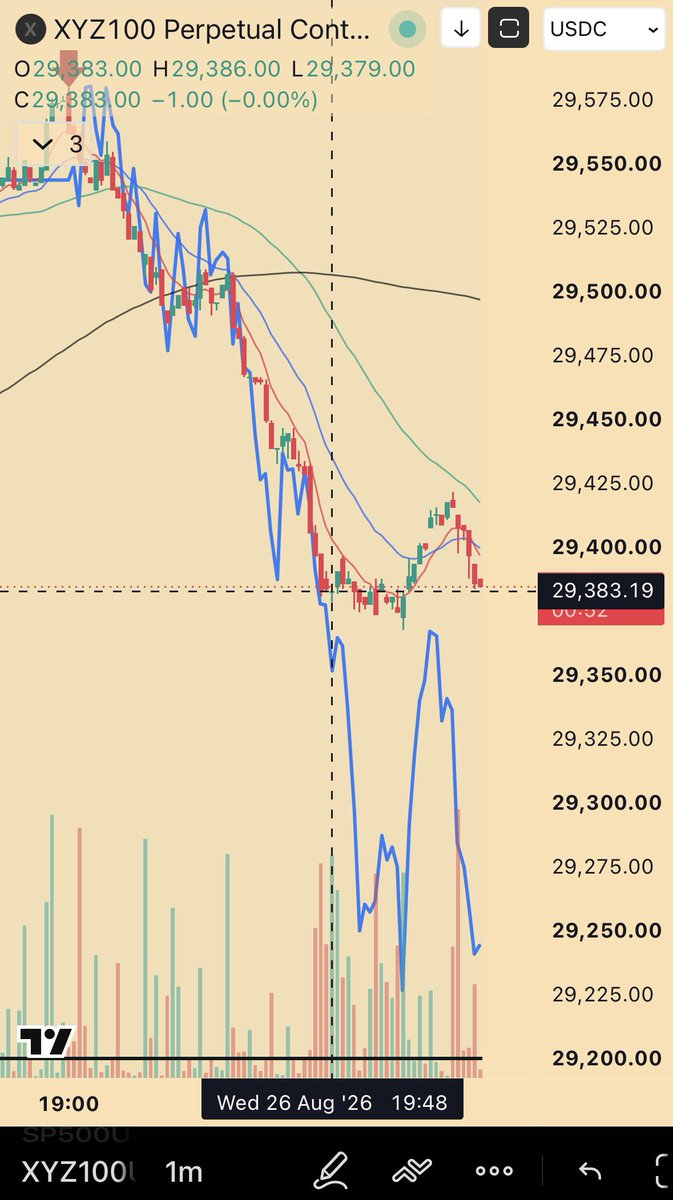
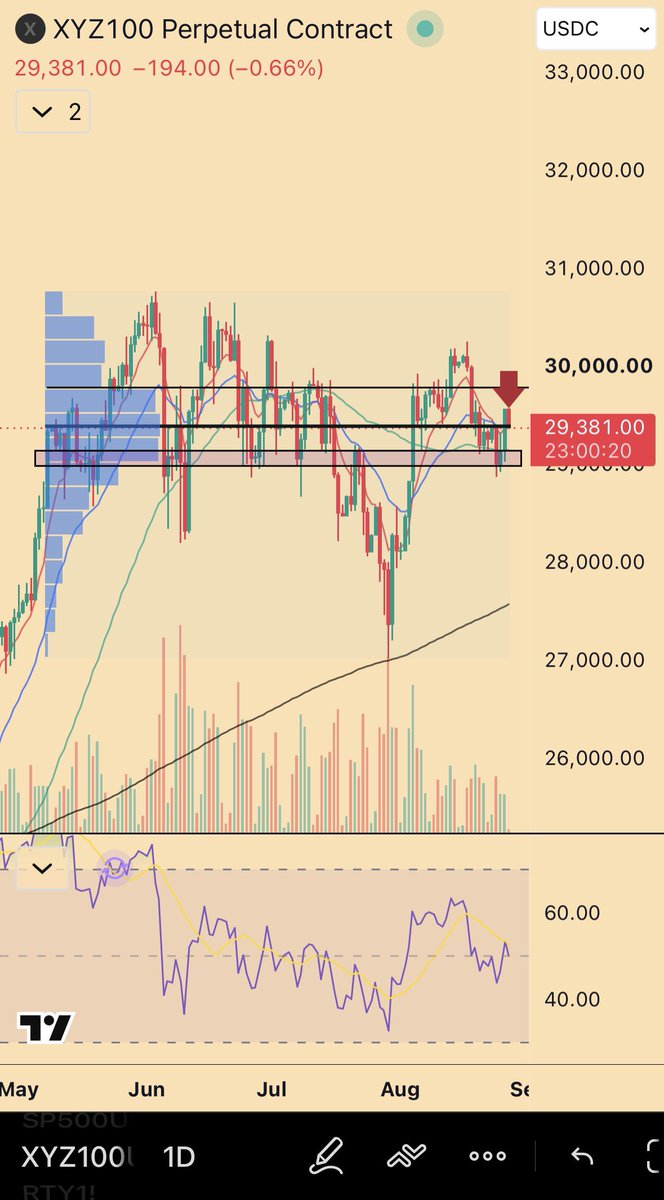
chore(x-trader-monitor): auto-commit 2026-08-27

diff --git a/memory/logs/2026-08-27.md b/memory/logs/2026-08-27.md
@@ -98,3 +98,11 @@
 - alerted: yes (informational market sentiment + Kyle watch-list tickers)
 - message: "Couple massive software earnings beats & NVDA for the first time in years is holding 5% gains post-earnings call\n\naaaand gold is outperforming the Nasdaq overnight\n\nYeah, you might want to listen to this"
 - context: Market sentiment observation on equities strength (NVDA post-earnings +5% stability) vs commodities outperformance (GOLD beating NASDAQ overnight index). Step 7 image analysis: meme screenshot (Luke Gromen "Why Bessent Blinked") with background text "FISCAL CRISIS" + "INTEREST RATES" — providing macro/policy context for observation. This frames NVDA/gold divergence as structural shift tied to fiscal-policy sentiment (Bessent Treasury implications for rates/risk). Classification: Step 6 INFORMATIONAL (market commentary/sentiment observation, no personal trade execution language). Text describes market structure ("NVDA holding gains", "gold outperforming"), not trader's personal action ("just bought", "closed position", "shorted"). Macro technical observation fits Step 6 framework. Dispersion-trade validation: aligns with WR's documented thesis ("bearish equities into Oct; GOLD/crypto won't make new lows even if equities do"). Current observation: both equities AND commodities strong = potential regime shift within prior bearish-equities macro thesis. Alerted Kyle via ./notify with sentiment context + ticker relevance (both on Kyle's explicit watch list: $NVDA, $GOLD). Memory updated (traders.md, x-trader-seen.txt). No approval required. Follow-up: watch for WR's next post on macro thesis shift if equity strength persists (potential ambiguous/thesis-testing signal).
+### x-trader-monitor (real-time event) — 01:24Z
+- trader: @Wild_Randomness
+- tweet_id: 2092785285268672822
+- classification: informational
+- ticker(s): [$KOSPI/$XYZ100]
+- alerted: yes
+- message: "Ideally just a POC re-test and go on a scam open on the KOSPI\n\nOk last tweet of the night, check back in tomorrow"
+- context: Technical market-structure observation on KOSPI/XYZ100 (Korean indices). Step 7 chart analysis: 1D daily chart shows XYZ100 Perpetual Contract at 29,381 (-0.66%), consolidation box 29,300-29,400 (Point of Control/volume profile peak, shown by dense volume histogram on left), multiple rejection wicks at 30,000 resistance. WR predicting market will retest POC level (consolidation zone) and then see another "scam open" (fake breakout attempt) at the 30K resistance level, continuing the pattern visible in chart. No personal trade execution language ("I bought/sold/added/closed"). Sentiment language: sign-off post ("Ok last tweet of the night, check back in tomorrow") indicates trader ending session. Step 6 classification: INFORMATIONAL (market structure/technical analysis commentary, no personal position or execution signal). Alerted Kyle via ./notify with chart context. Memory updated with event entry in traders.md. Tweet ID added to dedup list (memory/x-trader-seen.txt). Continuation of Wild_Randomness's Korean index technical focus across multiple posts in same session (00:26Z spike-rejection, 00:48Z algo structure critique, 01:16Z consolidation reaction, 01:24Z POC pattern prediction).

diff --git a/memory/topics/traders.md b/memory/topics/traders.md
@@ -102,6 +102,7 @@
   - Aug 27 00:01Z — informational: Nasdaq E-mini consolidation pattern 28K-30.5K; complex pullback with support/resistance structure + downtrending trendline; aligns with bearish-equities-into-Oct thesis [$NASDAQ] [2092764375857963350]
   - Aug 27 00:26Z — informational: XYZ100 (KOSPI 100) spike-rejection pattern; market microstructure commentary on Korean algo-driven inefficiencies; spike 29600→breakdown 29496; support zones 29100-29000; chart shows failed breakout [$KOSPI/$XYZ100] [2092770571268591715]
   - Aug 27 01:16Z — informational: XYZ100 spike-rejection continuation; reactive follow-up "I guess that's a start… thanks?"; 1m chart showing spike 29,600→breakdown 29,496→consolidation 29,383; sentiment response to market action; aligns with prior 00:26Z Korean index technical analysis [$XYZ100/$KOSPI] [2092783277346263269]
+  - Aug 27 01:24Z — informational: KOSPI/XYZ100 POC re-test + scam-open pattern; 1D chart consolidation 29,300-29,400 (volume profile POC) with multiple 30K rejection wicks; technical market-structure observation; sign-off post ("Ok last tweet of the night, check back in tomorrow") [$KOSPI/$XYZ100] [2092785285268672822]
   - Aug 27 00:32Z — ambiguous: ENA "0.136 you say?"; cryptic reference to Aug 26 21:57Z ENA dump to 0.1360; unclear if sarcasm/dismissal or execution question on TWAP fills; intent context unknown [$ENA] [2092772080874066241]
 
 ## Bitcoin_Astro

diff --git a/.outputs/x-trader-monitor.md b/.outputs/x-trader-monitor.md
@@ -9,3 +9,9 @@ Yeah, you might want to listen to this
 [View tweet](https://x.com/Wild_Randomness/status/2092784644194550157)
 
 ↳ _Dispersion-trade validation: equities (NVDA) + commodities (GOLD) both strong — aligns with WR's stated bearish-equities-into-Oct thesis but allowing tactical strength on structural shifts._
+KOSPI/XYZ100 technical structure observation:
+"Ideally just a POC re-test and go on a scam open on the KOSPI"
+
+Chart shows consolidation around 29,300-29,400 (Point of Control/volume peak) with multiple rejection wicks at 30,000 resistance. Sign-off post for the night.
+
+[View post](https://x.com/Wild_Randomness/status/2092785285268672822)
